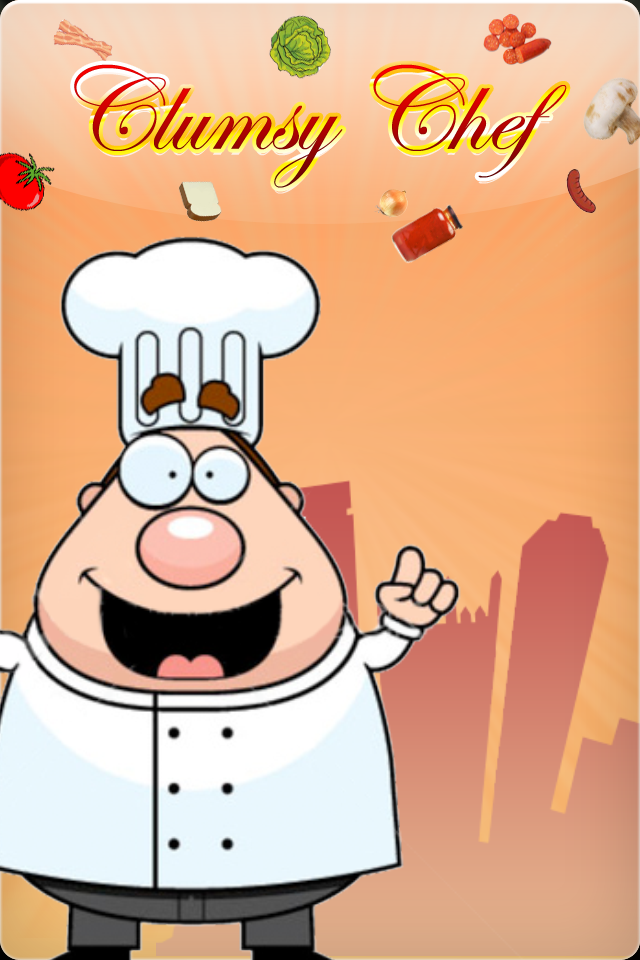
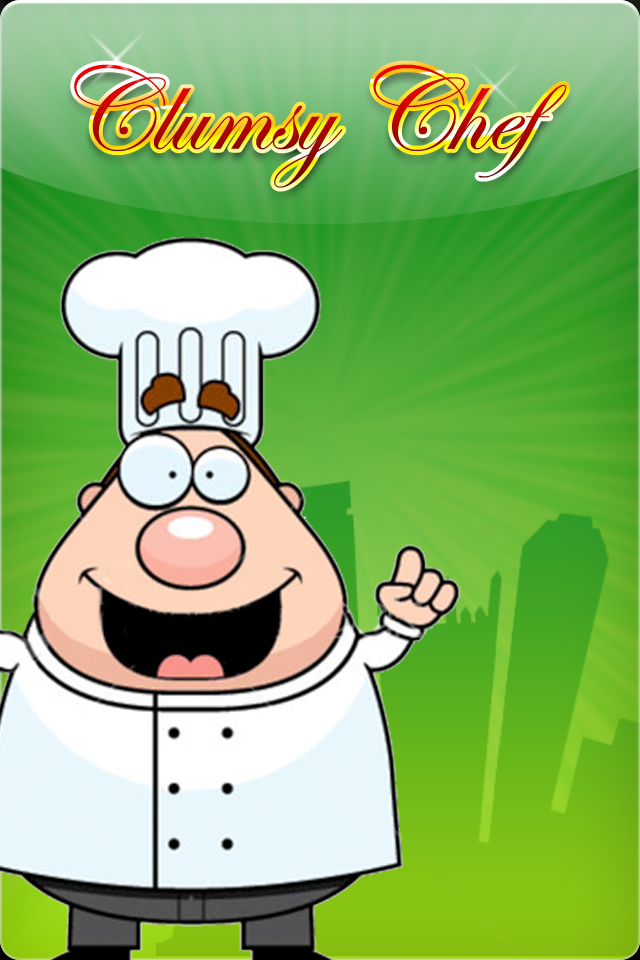
Changed graphics for main menu Implemented Frost mode (initial life = 9), enabled by defining a ALLOW_FROST_MODE macro in the preprocessor macros section of project settings.

diff --git a/ClumsyChef/ClumsyChef/CHMainMenuLayer.m b/ClumsyChef/ClumsyChef/CHMainMenuLayer.m
@@ -13,11 +13,14 @@
 #import "CHCreditLayer.h"
 #import "CHMainMenuUtilities.h"
 #import "CHMenuButton.h"
+#import "CHPlayerInfo.h"
+
 
 
 @implementation CHMainMenuLayer
 {
 	CCMenuItemToggle *_soundToggle;
+	CCMenuItemToggle *_frostModeToggle;
 }
 
 #pragma mark -
@@ -27,6 +30,12 @@
 {
 	SimpleAudioEngine *engine = [SimpleAudioEngine sharedEngine];
 	_soundToggle.selectedIndex = (engine.mute? 1 : 0);
+}
+
+- (void)updateFrostModeButton
+{
+	CHPlayerInfo *info = [CHPlayerInfo sharedPlayerInfo];
+	_frostModeToggle.selectedIndex = (info.frostModeEnabled? 1 : 0);
 }
 
 #pragma mark -
@@ -66,8 +75,22 @@
 		_soundToggle = [CCMenuItemToggle itemWithTarget:self selector:@selector(soundPressed:) 
 												  items:soundOn, soundOff, nil];
 		[_soundToggle setPositionSharp:ccp(289, 23)];
+
+#ifdef ALLOW_FROST_MODE		
+		CCMenuItemImage *frostOff = [CCMenuItemImage itemFromNormalImage:@"mainMenu-frostOff.png" 
+														   selectedImage:nil];
+		CCMenuItemImage *frostOn = [CCMenuItemImage itemFromNormalImage:@"mainMenu-frostOn.png" 
+														  selectedImage:nil];
+		_frostModeToggle = [CCMenuItemToggle itemWithTarget:self selector:@selector(frostModePressed:) 
+													  items:frostOff, frostOn, nil];
+		[_frostModeToggle setPositionSharp:ccp(239, 23)];
 		
+		CCMenu *menu = [CCMenu menuWithItems:play, highScores, credits, _soundToggle, _frostModeToggle, nil];
+		[self updateFrostModeButton];
+#else
 		CCMenu *menu = [CCMenu menuWithItems:play, highScores, credits, _soundToggle, nil];
+#endif
+		
 		menu.anchorPoint = CGPointZero;
 		menu.position = CGPointZero;
 		[self updateSoundToggleButton];
@@ -110,6 +133,13 @@
 	SimpleAudioEngine *engine = [SimpleAudioEngine sharedEngine];
 	engine.mute = !engine.mute;
 	[self updateSoundToggleButton];
+}
+
+- (void)frostModePressed:(id)sender
+{
+	CHPlayerInfo *info = [CHPlayerInfo sharedPlayerInfo];
+	info.frostModeEnabled = !info.frostModeEnabled;
+	[self updateFrostModeButton];
 }
 
 @end

diff --git a/ClumsyChef/ClumsyChef/CHCreditLayer.m b/ClumsyChef/ClumsyChef/CHCreditLayer.m
@@ -8,6 +8,7 @@
 
 #import "CHCreditLayer.h"
 #import "CHMainMenuUtilities.h"
+#import "SimpleAudioEngine.h"
 
 
 @implementation CHCreditLayer
@@ -22,6 +23,14 @@
 		
 		CCMenu *button = CHMenuMakeBackButton(ccp(CHGetHalfWinWidth(), 51), self, @selector(backButtonPressed:));
 		[self addChild:button];
+		
+		CCMenuItem *item = [CCMenuItem itemWithTarget:self selector:@selector(playSound:)];
+		[item setContentSize:CGSizeMake(180, 40)];
+		[item setPositionSharp:ccp(CHGetHalfWinWidth(), 290)];
+		CCMenu *menu = [CCMenu menuWithItems:item, nil];
+		menu.anchorPoint = CGPointZero;
+		menu.position = CGPointZero;
+		[self addChild:menu];
 	}
 	return self;
 }
@@ -29,6 +38,11 @@
 - (void)backButtonPressed:(id)sender
 {
 	CHMenuPopScene();
+}
+
+- (void)playSound:(id)sender
+{
+	[[SimpleAudioEngine sharedEngine] playEffect:@"Comedy Boing.caf"];
 }
 
 @end

diff --git a/ClumsyChef/ClumsyChef/CHGameLayer.m b/ClumsyChef/ClumsyChef/CHGameLayer.m
@@ -18,8 +18,8 @@
 #import "CHHUDLayer.h"
 #import "CHSharedResHolder.h"
 #import "CHPauseLayer.h"
-#import "TestMenuLayer.h"
 #import "CHMenuButton.h"
+#import "CHPlayerInfo.h"
 
 
 static CGFloat const kChefYOffset = 110.f;
@@ -167,8 +167,9 @@ static float const kGenObjectRangeDown = 100.f;
 	//-------------------------------------------
 	// HUD
 	//-------------------------------------------
+	NSUInteger numLifes = ([CHPlayerInfo sharedPlayerInfo].frostModeEnabled? 9 : 3);
 	_hudLayer = [CHHUDLayer nodeWithRequiredRecipeItems:levelInfo.recipeItems 
-										  numberOfLifes:3 
+										  numberOfLifes:numLifes 
 											moneyAmount:0];
 	[self addChild:_hudLayer z:5];
 	

diff --git a/ClumsyChef/ClumsyChef/CHPlayerInfo.h b/ClumsyChef/ClumsyChef/CHPlayerInfo.h
@@ -15,6 +15,7 @@
 @property(nonatomic) NSUInteger	numClearedLevels;
 // NSDictionary {CHPlayerInfoScoreEntryKeyPlyerName, CHPlayerInfoScoreEntryKeyScore}
 @property(nonatomic, readonly) NSArray		*highScores;
+@property(nonatomic, assign) BOOL			frostModeEnabled;	// Not saved; Default is NO
 
 + (CHPlayerInfo *)sharedPlayerInfo;
 

diff --git a/ClumsyChef/ClumsyChef/CHPlayerInfo.m b/ClumsyChef/ClumsyChef/CHPlayerInfo.m
@@ -15,6 +15,10 @@ static NSString* const kKeyNumClearedLevels = @"numClearedLevels";
 static NSString* const kKeyHighScores = @"highScores";
 
 @implementation CHPlayerInfo
+{
+	BOOL _frostModeEnabled;
+}
+@synthesize frostModeEnabled = _frostModeEnabled;
 
 - (id)init
 {
